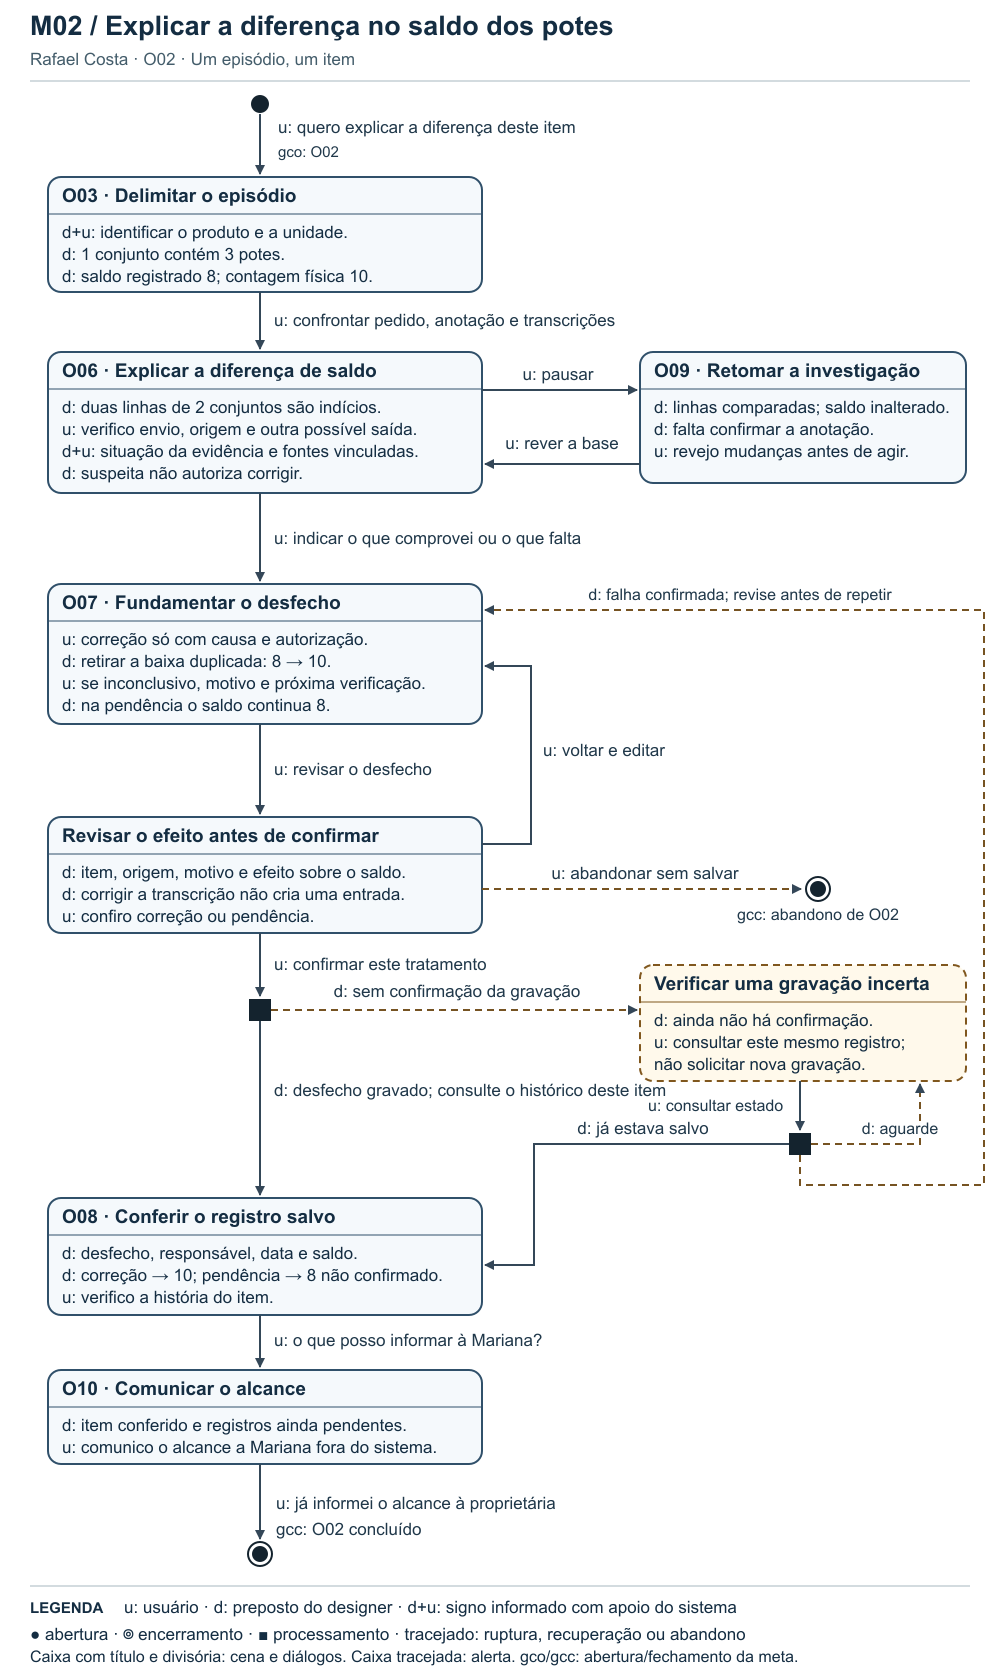
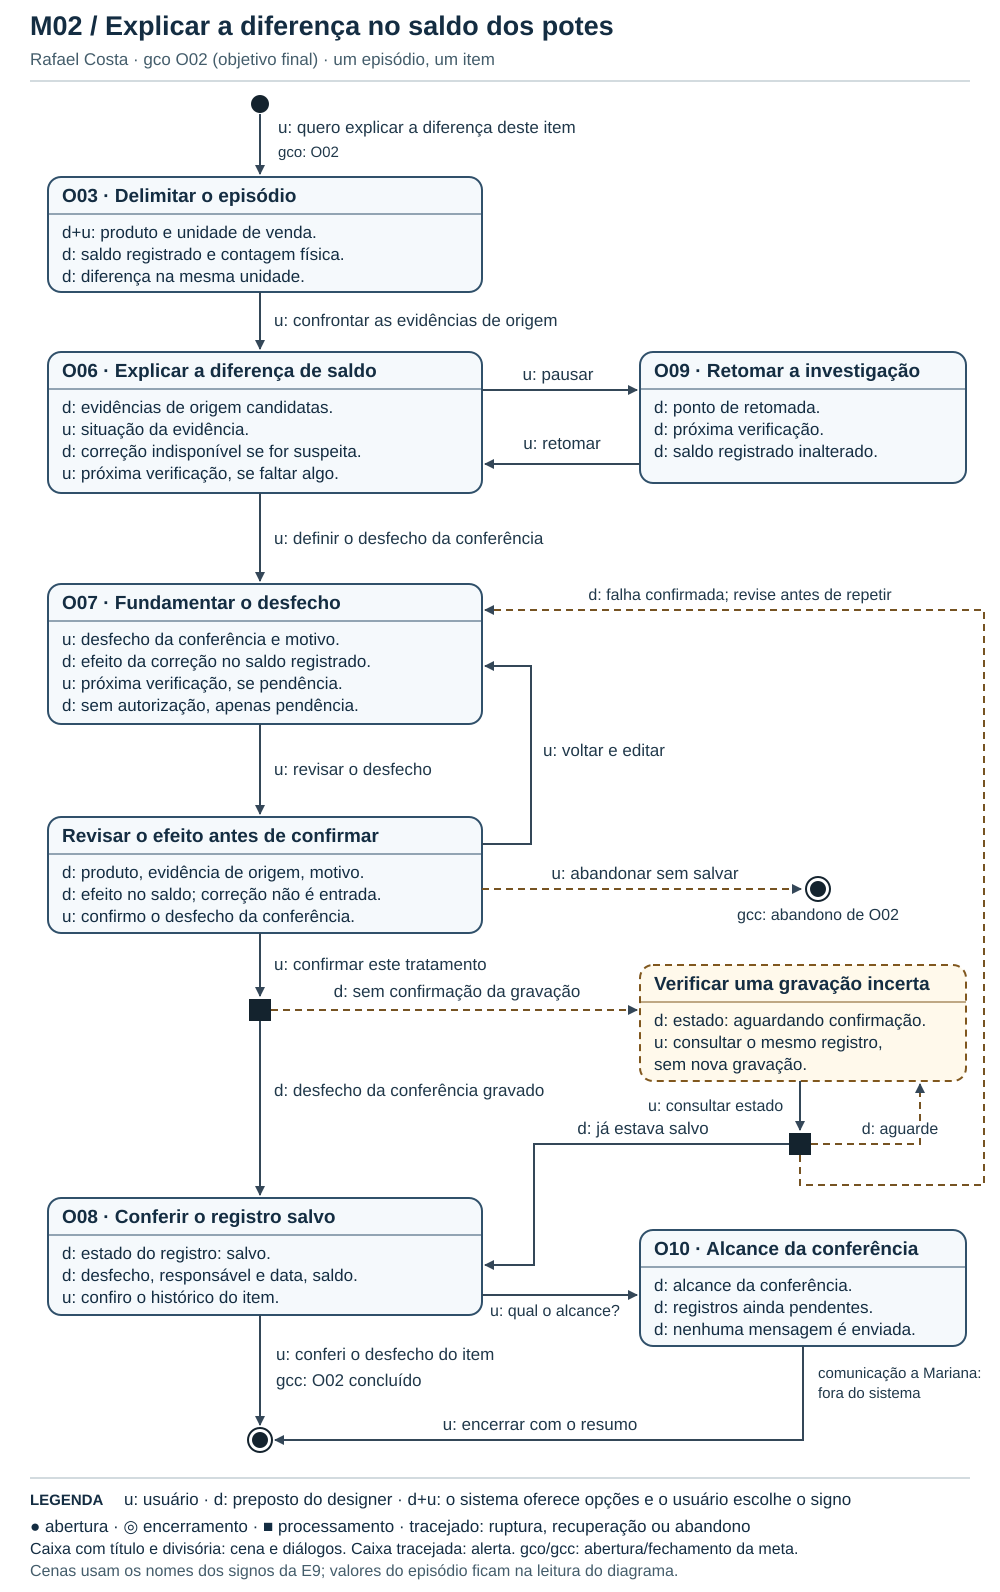
Refina a semântica dos MoLIC M01 e M02 (Entrega 10)
- Reduz a prosa nas cenas a falas curtas e nomes de signos da E9;
  valores do episódio passam para a leitura do diagrama.
- Restringe d+u: a O03 e ao desfecho da reposição, com tabela que
  justifica cada ocorrência.
- Marca a sugestão de reposição como signo condicional.
- M02: O02 termina em O08; O10 vira consulta opcional ao resumo do
  alcance, sem afirmar a comunicação externa.
- Registra a revisão e marca os checklists verificados.

Claude-Session: https://claude.ai/code/session_01HTyh9THEp8q68sQNbkQiKB

diff --git a/docs/10_molic.md b/docs/10_molic.md
@@ -23,13 +23,44 @@ Exemplos de conversas:
 
 Modele também rupturas plausíveis: entrada inválida, falha de processamento, ausência de resultado, permissão insuficiente, filtro sem resultados, conflito de alteração, cancelamento ou necessidade de recuperação.
 
+## Revisão após o feedback (25/11/2026)
+
+A estrutura gráfica dos dois diagramas foi mantida. As mudanças são semânticas:
+
+1. **Objetivos.** `gco/gcc` continuam apontando para O01 e O02, que agora são *Tomar uma decisão de reposição fundamentada e recuperável* e *Tornar o saldo do item confiável e explicável*, conforme o [mapa revisado da E9](09_modelo_conceitual.md#3-mapa-de-objetivos).
+2. **Menos prosa dentro das cenas.** As cenas trazem apenas falas curtas e nomes de signos. Os valores do episódio (6 − 2 = 4, 5 unidades em 3 dias, 8 → 10) e as explicações ficaram nesta leitura do diagrama. Eles são **variáveis do episódio**, não conteúdo fixo da interface.
+3. **Nomes de signos da E9.** Expressões livres foram trocadas pelos signos do esquema conceitual:
+
+| Expressão anterior no diagrama | Signo da E9 utilizado |
+|---|---|
+| “item, dados já vistos e estado” / “linhas comparadas” | ponto de retomada; estado do registro |
+| “se a base mudou” / “rever a base” | atualização da base |
+| “6 presentes − 2 comprometidas = 4 livres” | contagem física, quantidade comprometida, quantidade disponível |
+| “previsão no horizonte, ou indisponível” | previsão de demanda; horizonte |
+| “duas linhas … são indícios” / “situação da evidência e fontes vinculadas” | evidência de origem; situação da evidência |
+| “falta confirmar a anotação” / “o que falta verificar” | próxima verificação |
+| “item conferido e registros ainda pendentes” | alcance da conferência |
+| “estado” / “ainda não há confirmação” | estado do registro: rascunho, aguardando confirmação, salvo |
+
+4. **Uso de `d+u:`.** A notação agora aparece só quando o sistema oferece as opções e o usuário escolhe ou confirma o signo resultante:
+
+| Ocorrência | O que o sistema apresenta | O que o usuário fornece | Signo resultante |
+|---|---|---|---|
+| M01 e M02 · O03 | Itens do cadastro, com variações e candidatos semelhantes | Escolhe e confirma a variação | Produto; unidade de venda |
+| M01 · O05 | As três alternativas: planejar, adiar, deixar pendente | Escolhe uma delas | Desfecho da reposição |
+
+A situação da evidência em M02 passou de `d+u:` para `u:`, porque, segundo a E9, ela é avaliada por Rafael. O sistema apenas apresenta as evidências de origem.
+
+5. **Sugestão de reposição.** Em M01, o signo aparece entre colchetes (`[ ]`), marcando um signo condicional. Ele só é exibido se houver regra técnica confirmada no TCC e nunca substitui a quantidade planejada.
+6. **Fronteira de M02.** O objetivo O02 agora termina em **O08**, quando Rafael confere o desfecho salvo. O sistema consegue verificar isso. A cena **O10 · Alcance da conferência** virou uma consulta opcional: o preposto entrega o resumo e declara que nenhuma mensagem é enviada. A fala anterior “já informei o alcance à proprietária” foi retirada, porque descrevia uma ação externa que o sistema não observa.
+
 ## M01 — Decidir a reposição de um item
 
 **Autor(a):** Paulo Andre de Oliveira Hirata — 22.125.072-3.  
 **Cenário de interação de origem:** CI01 — Decidir a reposição da garrafa antes do prazo do fornecedor (E4-C01 / R04-01).  
 **Objetivo(s):** objetivo final O01 — Tomar uma decisão de reposição fundamentada e recuperável. Instrumentais diretos: O03 — Identificar o produto e a unidade; O04 — Avaliar a base da reposição; O05 — Escolher o desfecho da reposição; O08 — Conferir o registro salvo; O09 — Retomar o trabalho interrompido. Classificação conforme o [mapa revisado da E9](09_modelo_conceitual.md#3-mapa-de-objetivos).  
 **Tarefa(s) relacionada(s):** Mariana Alves, proprietária; T01 — analisar um produto e registrar uma decisão de reposição.  
-**Signos relevantes:** produto, unidade de venda, contagem física, quantidade comprometida, quantidade disponível, vendas confirmadas, atualização da base, horizonte, previsão de demanda, sugestão de reposição, prazo do fornecedor, desfecho da reposição, quantidade planejada, motivo, próxima verificação, ponto de retomada e estado do registro.
+**Signos relevantes:** produto, unidade de venda, contagem física, quantidade comprometida, quantidade disponível, vendas confirmadas, atualização da base, horizonte, previsão de demanda, sugestão de reposição (condicional), prazo do fornecedor, desfecho da reposição, quantidade planejada, motivo, próxima verificação, ponto de retomada e estado do registro.
 
 ### Diagrama
 
@@ -63,18 +94,21 @@ A conversa começa quando Mariana identifica a garrafa e termina quando confere 
 
 ### Checklist específico de modelagem
 
-- [ ] Existe **ponto de abertura** coerente com o início do objetivo.
-- [ ] As **cenas de conversa** representam tópicos/assuntos, não nomes de páginas apenas.
-- [ ] As transições/falas deixam claro o que o usuário ou o sistema comunica.
-- [ ] Há **ponto(s) de encerramento** para objetivos concluídos/abandonados quando aplicável.
-- [ ] Processamentos do sistema estão representados conforme a notação adotada em aula, sem “inventar” fala do usuário.
-- [ ] Rupturas (breakdowns) relevantes têm feedback e caminho de recuperação, não becos sem saída.
-- [ ] Acessos ubíquos/atalhos só aparecem quando semanticamente justificáveis.
-- [ ] O diagrama cobre caminhos alternativos importantes, e não apenas o “happy path”.
-- [ ] Nomes de objetivos, tópicos e signos são coerentes com a Entrega 9.
-- [ ] O diagrama é legível em tamanho normal no GitHub.
-- [ ] O MoLIC representa a conversa usuário–sistema, não o fluxo interno do algoritmo.
-- [ ] Processamento, filtros, administração, relatórios e históricos incluem retornos/rupturas quando relevantes.
+Verificado pela equipe em 25/11/2026, após a revisão. Nenhum acesso ubíquo foi usado. O item correspondente foi marcado porque nenhum atalho sem justificativa aparece no diagrama.
+
+
+- [x] Existe **ponto de abertura** coerente com o início do objetivo.
+- [x] As **cenas de conversa** representam tópicos/assuntos, não nomes de páginas apenas.
+- [x] As transições/falas deixam claro o que o usuário ou o sistema comunica.
+- [x] Há **ponto(s) de encerramento** para objetivos concluídos/abandonados quando aplicável.
+- [x] Processamentos do sistema estão representados conforme a notação adotada em aula, sem “inventar” fala do usuário.
+- [x] Rupturas (breakdowns) relevantes têm feedback e caminho de recuperação, não becos sem saída.
+- [x] Acessos ubíquos/atalhos só aparecem quando semanticamente justificáveis.
+- [x] O diagrama cobre caminhos alternativos importantes, e não apenas o “happy path”.
+- [x] Nomes de objetivos, tópicos e signos são coerentes com a Entrega 9.
+- [x] O diagrama é legível em tamanho normal no GitHub.
+- [x] O MoLIC representa a conversa usuário–sistema, não o fluxo interno do algoritmo.
+- [x] Processamento, filtros, administração, relatórios e históricos incluem retornos/rupturas quando relevantes.
 
 ## M02 — Explicar a diferença no saldo de um item
 
@@ -92,7 +126,7 @@ A conversa começa quando Mariana identifica a garrafa e termina quando confere 
 
 ### Leitura do diagrama
 
-O diagrama acompanha um único episódio: Rafael investiga a diferença, registra o que conseguiu comprovar e informa a Mariana o alcance da conferência. Uma pendência registrada não significa que a divergência foi resolvida.
+O diagrama acompanha um único episódio: Rafael investiga a diferença, registra o que conseguiu comprovar e confere o registro salvo. Opcionalmente, consulta o alcance da conferência para informá-lo a Mariana fora do sistema. Uma pendência registrada não significa que a divergência foi resolvida.
 
 #### Caminho principal
 
@@ -100,7 +134,8 @@ O diagrama acompanha um único episódio: Rafael investiga a diferença, registr
 2. **Explicar a diferença (O06).** Rafael localiza o pedido pelo identificador ou, se a anotação não tiver ID, por produto, data e quantidade. O preposto mantém as linhas candidatas visíveis, sem declará-las duplicadas. Rafael confronta a situação do pedido, reconta e consulta Mariana fora do sistema. No caminho principal, ela confirma que anotou a mesma venda online de dois conjuntos; o pedido foi enviado e não há segunda saída correspondente.
 3. **Fundamentar o desfecho (O07).** Com a origem confirmada **e autorização para corrigir**, Rafael vincula a transcrição indevida ao registro original e explica o motivo. O preposto antecipa o efeito: retirar apenas o segundo desconto leva o saldo de oito para dez. **Não houve entrada de mercadoria.**
 4. **Revisar, confirmar e conferir (O08).** Rafael verifica item, fontes, justificativa e efeito antes de autorizar a gravação. Depois, confere desfecho, responsável, data e saldo no histórico do episódio. Uma indicação de processamento em curso não serve como confirmação.
-5. **Comunicar o alcance (O10) e encerrar O02.** O preposto identifica o item conferido e os registros que continuam pendentes. Rafael comunica o resultado a Mariana **fora do sistema**. O resumo não significa que uma mensagem foi enviada nem que os quatorze registros foram reconciliados.
+5. **Encerrar O02 em O08.** Depois de conferir o desfecho no histórico, Rafael conclui O02: o saldo do item passou a ser confiável e explicável.
+6. **Consultar o alcance (O10, opcional).** Se Rafael perguntar o que pode informar, o preposto mostra o alcance da conferência: o item conferido e os registros que continuam pendentes. Também declara que nenhuma mensagem é enviada. Rafael encerra com o resumo. A comunicação a Mariana acontece **fora do sistema** e não é registrada como fato pelo diagrama. O10 é instrumental **indireto** de O01, porque prepara a próxima decisão de reposição de Mariana. O resumo não significa que os quatorze registros foram reconciliados.
 
 #### Alternativas e rupturas
 
@@ -112,22 +147,25 @@ O diagrama acompanha um único episódio: Rafael investiga a diferença, registr
 | Precisa separar uma encomenda | O06 ↔ O09 | Ao retomar, Rafael vê as linhas já comparadas, o que falta verificar e que não houve alteração do saldo. | Reexaminar a fonte caso tenha mudado; continuar a investigação sem aplicar uma operação anterior. |
 | Prévia da correção não corresponde à evidência | Revisão | Item, motivo e efeito aparecem juntos antes da confirmação. | Voltar a O07 e revisar; optar por pendência se a causa não estiver comprovada, ou abandonar sem salvar. |
 | A confirmação não chega | Processamento → alerta | O registro está aguardando; a interface não anuncia “corrigido”. | Consultar o registro. Se salvo, ir a O08 sem aplicar nova correção. Se aguardando, não repetir. Só com falha confirmada, revisar e tentar de novo. |
-| O item termina pendente | O08 → O10 | O resumo distingue pendência registrada de divergência resolvida. | Informar a Mariana que o saldo segue não confirmado e o que falta verificar. Conclui-se **o relato do episódio**, não a reconciliação dos demais registros. |
+| O item termina pendente | O08 → O10 | O histórico e o resumo distinguem pendência registrada de divergência resolvida. | O02 termina em O08 com a pendência explicada. Se consultar O10, Rafael sabe que o saldo segue não confirmado e o que falta verificar para informar Mariana fora do sistema. Os demais registros continuam sem reconciliação. |
 
 ### Checklist específico de modelagem
 
-- [ ] Existe **ponto de abertura** coerente com o início do objetivo.
-- [ ] As **cenas de conversa** representam tópicos/assuntos, não nomes de páginas apenas.
-- [ ] As transições/falas deixam claro o que o usuário ou o sistema comunica.
-- [ ] Há **ponto(s) de encerramento** para objetivos concluídos/abandonados quando aplicável.
-- [ ] Processamentos do sistema estão representados conforme a notação adotada em aula, sem “inventar” fala do usuário.
-- [ ] Rupturas (breakdowns) relevantes têm feedback e caminho de recuperação, não becos sem saída.
-- [ ] Acessos ubíquos/atalhos só aparecem quando semanticamente justificáveis.
-- [ ] O diagrama cobre caminhos alternativos importantes, e não apenas o “happy path”.
-- [ ] Nomes de objetivos, tópicos e signos são coerentes com a Entrega 9.
-- [ ] O diagrama é legível em tamanho normal no GitHub.
-- [ ] O MoLIC representa a conversa usuário–sistema, não o fluxo interno do algoritmo.
-- [ ] Processamento, filtros, administração, relatórios e históricos incluem retornos/rupturas quando relevantes.
+Verificado pela equipe em 25/11/2026, após a revisão. Nenhum acesso ubíquo foi usado. O item correspondente foi marcado porque nenhum atalho sem justificativa aparece no diagrama.
+
+
+- [x] Existe **ponto de abertura** coerente com o início do objetivo.
+- [x] As **cenas de conversa** representam tópicos/assuntos, não nomes de páginas apenas.
+- [x] As transições/falas deixam claro o que o usuário ou o sistema comunica.
+- [x] Há **ponto(s) de encerramento** para objetivos concluídos/abandonados quando aplicável.
+- [x] Processamentos do sistema estão representados conforme a notação adotada em aula, sem “inventar” fala do usuário.
+- [x] Rupturas (breakdowns) relevantes têm feedback e caminho de recuperação, não becos sem saída.
+- [x] Acessos ubíquos/atalhos só aparecem quando semanticamente justificáveis.
+- [x] O diagrama cobre caminhos alternativos importantes, e não apenas o “happy path”.
+- [x] Nomes de objetivos, tópicos e signos são coerentes com a Entrega 9.
+- [x] O diagrama é legível em tamanho normal no GitHub.
+- [x] O MoLIC representa a conversa usuário–sistema, não o fluxo interno do algoritmo.
+- [x] Processamento, filtros, administração, relatórios e históricos incluem retornos/rupturas quando relevantes.
 
 ## Consolidação da equipe
 
@@ -144,7 +182,7 @@ O diagrama acompanha um único episódio: Rafael investiga a diferença, registr
 | O07 · Fundamentar correção ou pendência | M02 | Sem causa ou autorização, corrigir seria indevido. | Oferecer pendência sem alteração de saldo. |
 | O08 · Conferir o registro salvo | Ambos | Compartilham os estados de gravação, não o significado do registro. | Usar o mesmo padrão de consulta antes de repetir. |
 | O09 · Retomar o trabalho interrompido | Ambos | Ambos exigem continuidade; o dado a recuperar difere. | Mostrar item, ponto de retomada e base alterada. Não reaplicar operação. |
-| O10 · Comunicar o alcance da conferência | M02 | Resumo disponível não significa mensagem enviada. | Separar a resposta do preposto da comunicação humana de Rafael. |
+| O10 · Comunicar o alcance da conferência (instrumental indireto de O01) | M02, como cena opcional após O08 | Resumo disponível não significa mensagem enviada. | O02 termina em O08. O preposto entrega o resumo do alcance; a comunicação de Rafael a Mariana fica fora do sistema. |
 
 ### Preparação para o Figma
 
